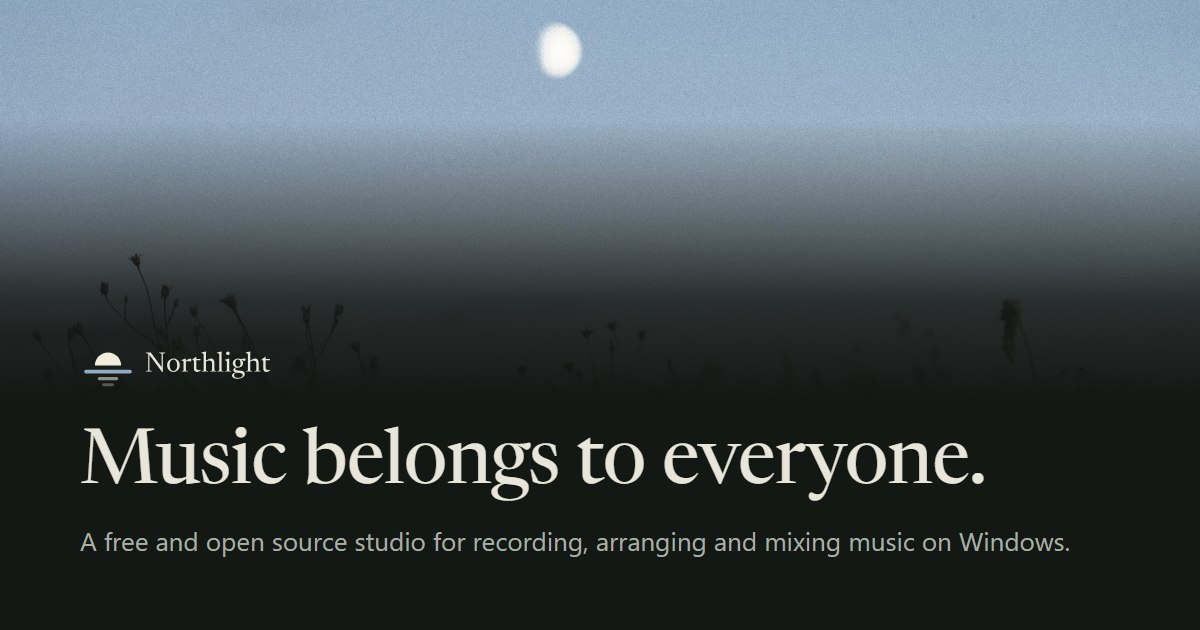
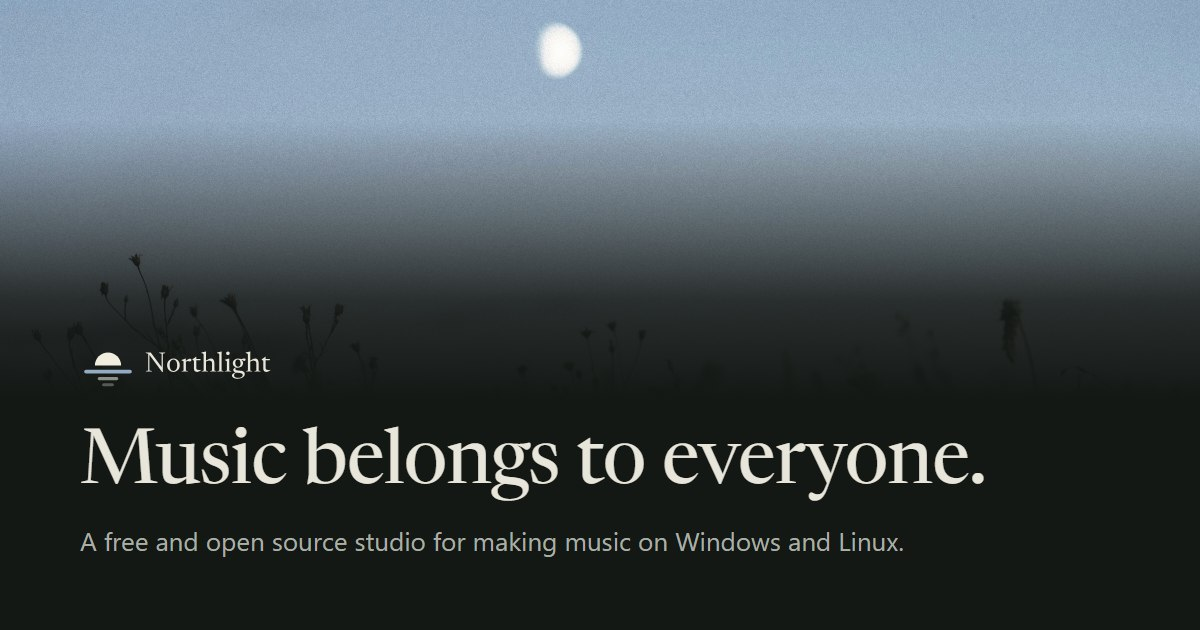
Add Linux to the site, with a news post for 0.1.0 beta 2
Beta 2 adds an experimental Linux AppImage. The download page points at
beta 2, with Windows and Linux sections and a Linux row in the system
requirements. The home page, footer, site description, pledge, press kit
and share image now say Windows and Linux; Linux is called experimental
wherever it gets detail. The news post says how to run the AppImage,
what it needs, how it plays audio and what doesn't work yet.

Changed region(s): [[0.4008, 0.8444, 0.8942, 0.8746]]

diff --git a/src/routeData.ts b/src/routeData.ts
@@ -6,7 +6,7 @@ const image = {
 	path: '/og-image.jpg',
 	width: '1200',
 	height: '630',
-	alt: 'Northlight: Music belongs to everyone. A free and open source studio for recording, arranging and mixing music on Windows.',
+	alt: 'Northlight: Music belongs to everyone. A free and open source studio for making music on Windows and Linux.',
 };
 
 const homeTitle = 'Northlight | Music belongs to everyone';

diff --git a/scripts/og-image.html b/scripts/og-image.html
@@ -59,7 +59,7 @@
 	<div class="text">
 		<img class="lockup" src="../src/assets/lockup-dark.svg" alt="">
 		<h1>Music belongs to everyone.</h1>
-		<p>A free and open source studio for recording, arranging and mixing music on Windows.</p>
+		<p>A free and open source studio for making music on Windows and Linux.</p>
 	</div>
 </body>
 </html>

diff --git a/src/content/docs/news/northlight-0-1-0-beta-2.md b/src/content/docs/news/northlight-0-1-0-beta-2.md
@@ -1,0 +1,69 @@
+---
+template: splash
+title: Northlight 0.1.0 beta 2, now on Linux
+description: The second beta adds an experimental Linux version, as an AppImage. Here's how to run it and what doesn't work yet.
+date: 2026-11-02
+---
+
+Northlight 0.1.0-beta.2 adds a version for Linux. It's experimental: it builds, its
+tests pass and it runs, but far fewer people have used it than the Windows version,
+and some parts are still missing. If you make music on Linux, try it and tell us how it
+goes.
+
+There's nothing new for Windows in this release. If you have beta 1, you don't need to
+update.
+
+[Download the AppImage](https://github.com/northlightaudio/northlight/releases/download/v0.1.0-beta.2/Northlight-0.1.0-beta.2-x86_64.AppImage),
+or see everything on the
+[release page](https://github.com/northlightaudio/northlight/releases/tag/v0.1.0-beta.2).
+
+## Running it
+
+Northlight for Linux is one file, an AppImage, with nothing to install. Make it
+executable and run it:
+
+```sh
+chmod +x Northlight-0.1.0-beta.2-x86_64.AppImage
+./Northlight-0.1.0-beta.2-x86_64.AppImage
+```
+
+It needs a 64-bit PC and a distribution from 2022 or later: Ubuntu 22.04 or newer, or
+anything with glibc 2.35 or newer. If it doesn't start, run it with
+`--appimage-extract-and-run`, and please [tell us](https://github.com/northlightaudio/northlight/issues)
+which distribution you're on. To check your download, compare it with the checksums
+in `SHA256SUMS.txt` on the release page.
+
+## Audio
+
+Northlight plays through JACK when a JACK server is running, and that includes
+PipeWire through its JACK layer (`pipewire-jack` on most distributions). Otherwise it
+uses ALSA. You can change the device in Audio Setup.
+
+For steady playback at small buffer sizes, Northlight runs its audio threads at
+real-time priority. It can do that when your user is in a group allowed real-time
+priority (usually `audio`), or through rtkit, which most desktop distributions
+already run. Diagnostics shows whether it worked.
+
+## What doesn't work yet
+
+- CLAP plugins run, but their windows don't open, so they have no editor. VST3
+  plugins' windows should work but haven't been tested much.
+- A plugin that crashes takes Northlight down with it. On Windows, Northlight catches
+  the crash and keeps running. Plugin scanning is safe on both, because it runs in a
+  separate process.
+- Crash reports aren't made, and the high contrast and reduce motion settings don't
+  follow the system's. You can still set them in Preferences.
+
+Everything else in [the first beta](/news/northlight-0-1-0-beta-1/) is there: the
+instruments, the effects, recording, mixing, editing and export.
+
+## Tell us what you find
+
+- **Bugs:** [open an issue](https://github.com/northlightaudio/northlight/issues) on
+  GitHub. For Linux, say which distribution you use and whether you're on JACK,
+  PipeWire or ALSA.
+- **Questions and ideas:** ask in
+  [Discussions](https://github.com/northlightaudio/northlight/discussions) or on
+  [Discord](https://discord.gg/dkW3NSenhP).
+
+There's still no version for Mac.

diff --git a/src/content/docs/pledge.md b/src/content/docs/pledge.md
@@ -55,9 +55,9 @@ where they can see them.
 
 ## Where we are today
 
-Northlight runs only on Windows for now. The code is written so it can be ported, but
-until it is, people on other systems can't use it. Its first release, 0.1.0 beta 1, is
-a beta: [download it](/download/) to try it, and expect rough edges.
+Northlight runs on Windows, and since 0.1.0 beta 2 there's an experimental version for
+Linux. There's no version for Mac yet, so people on a Mac can't use it. It's a beta:
+[download it](/download/) to try it, and expect rough edges.
 
 ## What we ask of you
 
